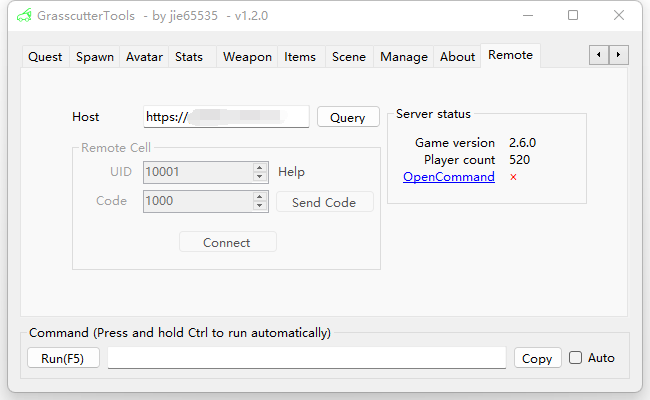
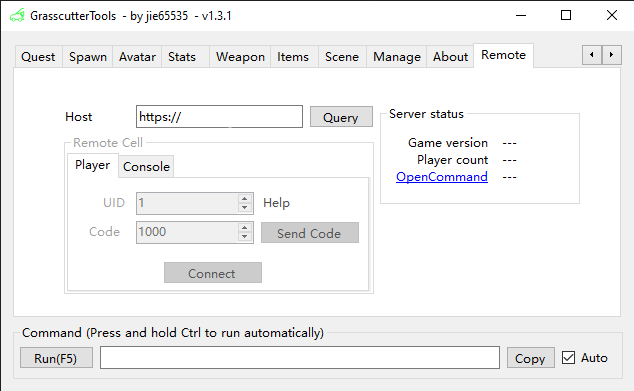
Slight word changes and image updates (#38)
* Update images to the current version

* Changing wording

Slightly changing wording in 2 commands

* Add files via upload

* Add files via upload

* Update README_en-US.md

* Delete CustomWeapon.png

* Add files via upload

* Delete 1-CustomComands.png

* Add files via upload

* Update AvatarStats.json

diff --git a/README_en-US.md b/README_en-US.md
@@ -55,6 +55,6 @@ The server require [gc-opencommand-plugin](https://github.com/jie65535/gc-openco
 
 ![Text Map Browser](Doc/Screenshots-en/11-TextMapBrowser.png)
 
-![Remote Screenshort](Doc/Screenshots/12-Remote.png)
+![Remote Screenshort](Doc/Screenshots-en/12-Remote.png)
 
-![Quest Screenshort](Doc/Screenshots/13-Quest.png)
+![Quest Screenshort](Doc/Screenshots-en/13-Quest.png)
